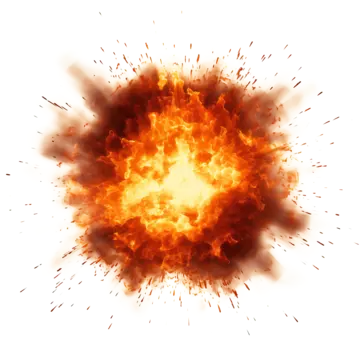
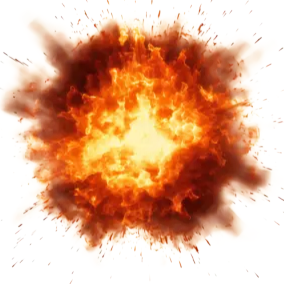
Added imporvements for enemy shooting, sound, explosion image and completed README

diff --git a/play.py b/play.py
@@ -37,6 +37,10 @@ def play_game(SCREEN):
     player_x = SCREEN.get_width() // 2 - player_width // 2
     player_y = SCREEN.get_height() // 2 - player_height // 2
 
+    # Load explosion image and sound
+    explosion_image = pygame.transform.scale(pygame.image.load("./assets/images/explosion.png").convert_alpha(), (75, 75))
+    explosion_sound = pygame.mixer.Sound("./assets/sounds/explosion-sound.mp3")
+    explosions = []
 
     # Load bullet image
     bullet_red = pygame.image.load("./assets/images/red_laser.png").convert_alpha()
@@ -66,8 +70,8 @@ def play_game(SCREEN):
 
     # Bullet properties for enemies
     enemy_bullet_speed = 10
-    enemy_bullet_cooldown = 700  
     last_enemy_bullet_time = 0
+    enemy_shoot_timers = {} # Dictionary to track each enemy's shooting timer and cooldown
     enemy_bullets = []  # List to track enemy bullets
 
     # Score properties
@@ -110,10 +114,12 @@ def play_game(SCREEN):
         player_x = max(0, min(SCREEN.get_width() - player_width, player_x))
         player_y = max(0, min(SCREEN.get_height() - player_height, player_y))
             
-        sound2 = pygame.mixer.Sound('./assets/sounds/shot2.mp3')
         sound1 = pygame.mixer.Sound('./assets/sounds/shot1.mp3')
+        sound1.set_volume(0.3)
+        sound2 = pygame.mixer.Sound('./assets/sounds/shot2.mp3')
+        sound2.set_volume(0.3)
         sound3 = pygame.mixer.Sound('./assets/sounds/shot3.mp3')
-        # sound4 = pygame.mixer.Sound('./assets/sounds/explosion-sound1.mp3')
+        sound3.set_volume(0.3)
 
         # Check for continuous shooting with cooldown
         if keys[pygame.K_SPACE] and current_time - last_bullet_time > bullet_cooldown:
@@ -125,18 +131,33 @@ def play_game(SCREEN):
             bullets.append((bullet_x, bullet_y))
             last_bullet_time = current_time  # Update the last bullet time
 
-
         # Update bullet positions
         bullets = [(x + bullet_speed, y) for x, y in bullets if x < SCREEN.get_width()]
 
         # Enemy shooting logic
-        if current_time - last_enemy_bullet_time > enemy_bullet_cooldown:
-            for enemy_x, enemy_y, enemy in enemies:
+        for idx, (enemy_x, enemy_y, enemy) in enumerate(enemies):
+            # Initialize shooting timer and cooldown if not already set
+            if idx not in enemy_shoot_timers:
+                enemy_shoot_timers[idx] = {
+                    "last_shot": pygame.time.get_ticks(),
+                    "cooldown": random.randint(500, 1500)  # Random cooldown between 500ms and 1500ms
+                }
+
+            # Get the current time and the enemy's shooting data
+            current_time = pygame.time.get_ticks()
+            last_shot = enemy_shoot_timers[idx]["last_shot"]
+            cooldown = enemy_shoot_timers[idx]["cooldown"]
+
+            # Check if the enemy can shoot
+            if current_time - last_shot >= cooldown:
                 # Spawn a bullet at the center-left of the enemy
                 bullet_x = enemy_x - bullet_width
                 bullet_y = enemy_y + enemy.get_height() // 2 - bullet_height // 2
                 enemy_bullets.append((bullet_x, bullet_y))
-            last_enemy_bullet_time = current_time
+
+                # Update the shooting timer and set a new random cooldown
+                enemy_shoot_timers[idx]["last_shot"] = current_time
+                enemy_shoot_timers[idx]["cooldown"] = random.randint(500, 1500)
 
         # Update enemy bullet positions
         enemy_bullets = [(x - enemy_bullet_speed, y) for x, y in enemy_bullets if x > -bullet_width]
@@ -156,21 +177,35 @@ def play_game(SCREEN):
         for bullet_x, bullet_y in bullets:
             for i, (enemy_x, enemy_y, enemy) in enumerate(enemies):
                 if (
-                    bullet_x < enemy_x + enemy.get_width() and
-                    bullet_x + bullet_width > enemy_x and
-                    bullet_y < enemy_y + enemy.get_height() and
-                    bullet_y + bullet_height > enemy_y
+                    bullet_x < enemy_x + enemy.get_width()
+                    and bullet_x + bullet_width > enemy_x
+                    and bullet_y < enemy_y + enemy.get_height()
+                    and bullet_y + bullet_height > enemy_y
                 ):
                     bullets_to_remove.append((bullet_x, bullet_y))
                     enemies_to_remove.append(i)
-                    score += 10  # Add 10 points for each destroyed enemy
-                    expsound = pygame.mixer.Sound('./assets/sounds/explosion-sound.mp3')
-                    expsound.play()
+                    score += 1  # Add 10 points for each destroyed enemy
 
-        # Remove collided bullets and enemies
+                    explosions.append({
+                        "x": enemy_x,
+                        "y": enemy_y,
+                        "time": pygame.time.get_ticks()
+                    })
+
+                    explosion_sound.play()
+
+        # Display explosions and remove them after 400ms
+        current_time = pygame.time.get_ticks()
+        for explosion in explosions[:]:
+            if current_time - explosion["time"] > 400:  # Show for 400ms
+                explosions.remove(explosion)
+            else:
+                SCREEN.blit(explosion_image, (explosion["x"], explosion["y"]))
+
+        # Remove collided bullets and enemies/enemies timers
         bullets = [b for b in bullets if b not in bullets_to_remove]
         enemies = [e for i, e in enumerate(enemies) if i not in enemies_to_remove]
-
+        enemy_shoot_timers = {i: timer for i, timer in enemy_shoot_timers.items() if i < len(enemies)}
 
         # Check collisions between enemy bullets and the player
         for bullet_x, bullet_y in enemy_bullets:
@@ -180,9 +215,10 @@ def play_game(SCREEN):
                 bullet_y < player_y + player_height and
                 bullet_y + bullet_height > player_y
             ):
-                player_health -= 10  # Reduce player health
+                player_health -= 5  # Reduce player health
                 enemy_bullets.remove((bullet_x, bullet_y))  # Remove the bullet
-            # Check if player's health is 0 or below
+
+                # Check if player's health is 0 or below
                 if (player_health <= 0):
                     game_over(SCREEN) 
 

diff --git a/README.md b/README.md
@@ -23,9 +23,15 @@ To play **Space Wars**, follow these steps:
     ```
 
 # 🎮Controls
-TODO
+- **W**: Move up
+- **A**: Move down
+- **S**: Move left
+- **D**: Move right
+- **SPACEBAR**: Shoot (hold for continuous fire with cooldown)
 
 # 🖼Screenshots
 ![Screenshot_1](screenshots/preview_1.png)
+![Screenshot_2](screenshots/preview_2.png)
+![Screenshot_3](screenshots/preview_3.png)
 
 > Let the battle for space dominance begin! 🛸
